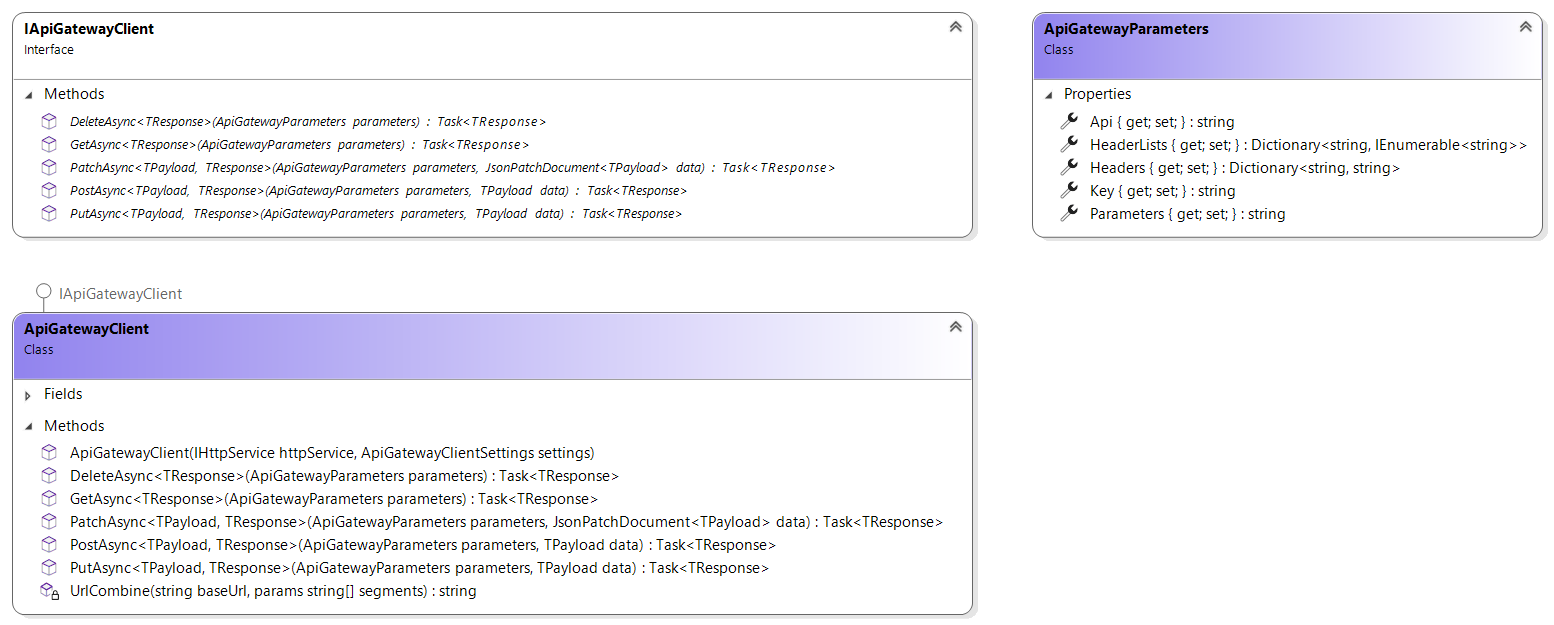
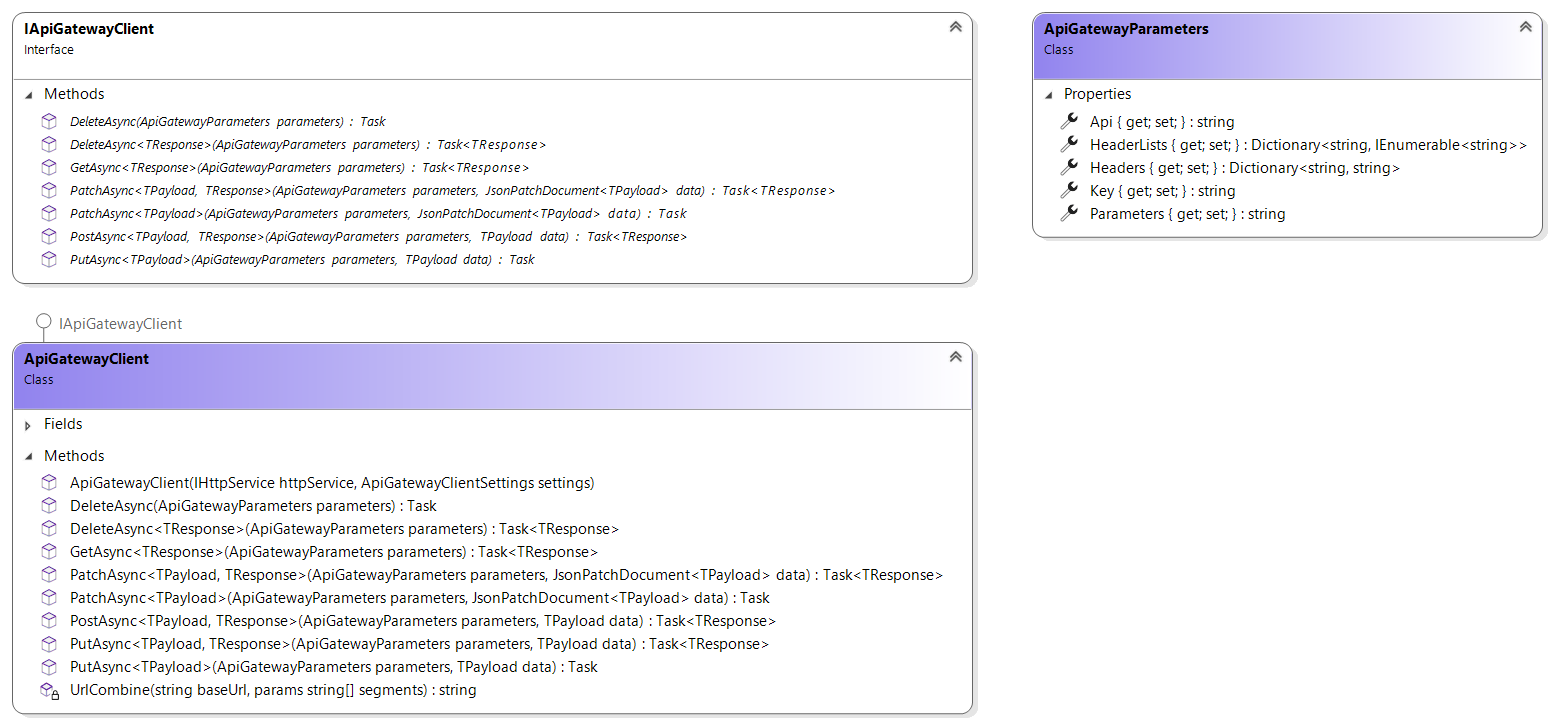
created overloads for put, patch, delete with no response.

diff --git a/AspNetCore.ApiGateway.Client/ApiGatewayClient.cs b/AspNetCore.ApiGateway.Client/ApiGatewayClient.cs
@@ -51,6 +51,21 @@ namespace AspNetCore.ApiGateway.Client
             return JsonConvert.DeserializeObject<TResponse>(await response.Content.ReadAsStringAsync());
         }
 
+        public async Task PutAsync<TPayload>(ApiGatewayParameters parameters, TPayload data)
+        {
+            var gatewayUrl = UrlCombine(_settings.ApiGatewayBaseUrl, "api/Gateway", parameters.Api, parameters.Key);
+            gatewayUrl = $"{gatewayUrl}?parameters={WebUtility.UrlEncode(parameters.Parameters ?? String.Empty)}";
+
+            _httpClient.AddHeaders(parameters);
+
+            var content = new StringContent(JsonConvert.SerializeObject(data), Encoding.UTF8, "application/json");
+            content.Headers.ContentType = new MediaTypeHeaderValue("application/json");
+
+            var response = await _httpClient.PutAsync(gatewayUrl, content);
+
+            response.EnsureSuccessStatusCode();
+        }
+
         public async Task<TResponse> PutAsync<TPayload, TResponse>(ApiGatewayParameters parameters, TPayload data)
         {
             var gatewayUrl = UrlCombine(_settings.ApiGatewayBaseUrl, "api/Gateway", parameters.Api, parameters.Key);
@@ -66,6 +81,32 @@ namespace AspNetCore.ApiGateway.Client
             response.EnsureSuccessStatusCode();
 
             return JsonConvert.DeserializeObject<TResponse>(await response.Content.ReadAsStringAsync());
+        }
+
+        public async Task PatchAsync<TPayload>(ApiGatewayParameters parameters, JsonPatchDocument<TPayload> data)
+            where TPayload : class
+        {
+            var gatewayUrl = UrlCombine(_settings.ApiGatewayBaseUrl, "api/Gateway", parameters.Api, parameters.Key);
+            gatewayUrl = $"{gatewayUrl}?parameters={WebUtility.UrlEncode(parameters.Parameters ?? String.Empty)}";
+
+            _httpClient.AddHeaders(parameters);
+
+            var content = new StringContent(JsonConvert.SerializeObject(data), Encoding.UTF8, "application/json-patch+json");
+            content.Headers.ContentType = new MediaTypeHeaderValue("application/json-patch+json");
+
+            var method = "PATCH";
+            var httpVerb = new HttpMethod(method);
+
+            var httprequest = new HttpRequestMessage
+            {
+                RequestUri = new Uri(gatewayUrl),
+                Content = content,
+                Method = httpVerb
+            };
+
+            var response = await _httpClient.SendAsync(httprequest);
+
+            response.EnsureSuccessStatusCode();
         }
 
         public async Task<TResponse> PatchAsync<TPayload, TResponse>(ApiGatewayParameters parameters, JsonPatchDocument<TPayload> data)
@@ -94,6 +135,18 @@ namespace AspNetCore.ApiGateway.Client
             response.EnsureSuccessStatusCode();
 
             return JsonConvert.DeserializeObject<TResponse>(await response.Content.ReadAsStringAsync());
+        }
+
+        public async Task DeleteAsync(ApiGatewayParameters parameters)
+        {
+            var gatewayUrl = UrlCombine(_settings.ApiGatewayBaseUrl, "api/Gateway", parameters.Api, parameters.Key);
+            gatewayUrl = $"{gatewayUrl}?parameters={WebUtility.UrlEncode(parameters.Parameters ?? String.Empty)}";
+
+            _httpClient.AddHeaders(parameters);
+
+            var response = await _httpClient.DeleteAsync(gatewayUrl);
+
+            response.EnsureSuccessStatusCode();
         }
 
         public async Task<TResponse> DeleteAsync<TResponse>(ApiGatewayParameters parameters)

diff --git a/AspNetCore.ApiGateway.Client/IApiGatewayClient.cs b/AspNetCore.ApiGateway.Client/IApiGatewayClient.cs
@@ -7,9 +7,13 @@ namespace AspNetCore.ApiGateway.Client
     {
         Task<TResponse> GetAsync<TResponse>(ApiGatewayParameters parameters);
         Task<TResponse> PostAsync<TPayload, TResponse>(ApiGatewayParameters parameters, TPayload data);
+        Task PutAsync<TPayload>(ApiGatewayParameters parameters, TPayload data);
         Task<TResponse> PutAsync<TPayload, TResponse>(ApiGatewayParameters parameters, TPayload data);
+        Task PatchAsync<TPayload>(ApiGatewayParameters parameters, JsonPatchDocument<TPayload> data)
+            where TPayload : class;
         Task<TResponse> PatchAsync<TPayload, TResponse>(ApiGatewayParameters parameters, JsonPatchDocument<TPayload> data)
             where TPayload : class;
+        Task DeleteAsync(ApiGatewayParameters parameters);
         Task<TResponse> DeleteAsync<TResponse>(ApiGatewayParameters parameters);
     }
 }

diff --git a/AspNetCore.ApiGateway.Tests/GatewayClientTests.cs b/AspNetCore.ApiGateway.Tests/GatewayClientTests.cs
@@ -185,7 +185,7 @@ namespace AspNetCore.ApiGateway.Tests
             };
 
             //Act
-            await client.PutAsync<UpdateWeatherTypeRequest, string>(parameters, payload);
+            await client.PutAsync(parameters, payload);
 
             parameters = new ApiGatewayParameters
             {
@@ -251,7 +251,7 @@ namespace AspNetCore.ApiGateway.Tests
             };
 
             //Act
-            await client.DeleteAsync<string>(parameters);
+            await client.DeleteAsync(parameters);
 
             parameters = new ApiGatewayParameters
             {
